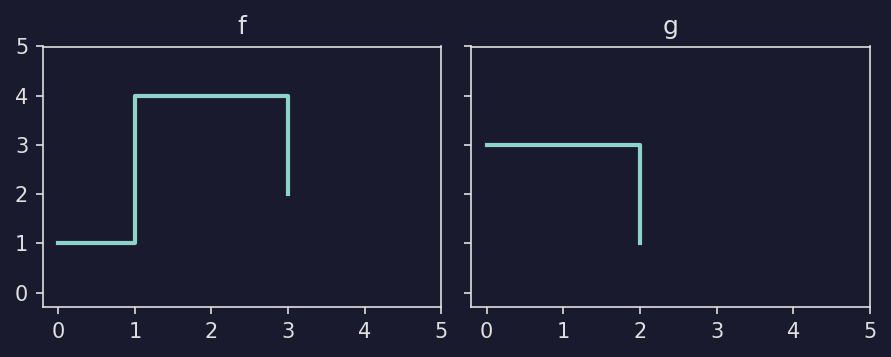
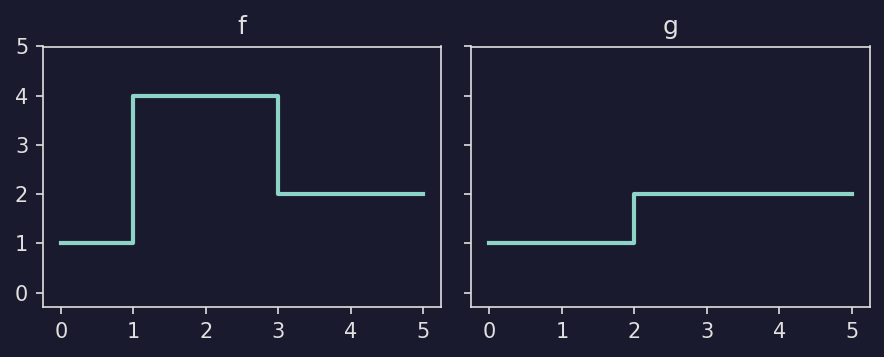
Plotting stuff for docs

diff --git a/docs/_static/gen_tensor_eval_fig.py b/docs/_static/gen_tensor_eval_fig.py
@@ -14,33 +14,27 @@ HERE = Path(__file__).parent
 # f(t) = 1 on [0,1), 4 on [1,3), 2 on [3,inf)
 f = mpcf.Pcf(np.array([[0, 1], [1, 4], [3, 2]], dtype=np.float32))
 
-# g(t) = 3 on [0,2), 1 on [2,inf)
-g = mpcf.Pcf(np.array([[0, 3], [2, 1]], dtype=np.float32))
+# g(t) = 1 on [0,2), 2 on [2,inf)
+g = mpcf.Pcf(np.array([[0, 1], [2, 2]], dtype=np.float32))
 
 X = mpcf.zeros((2, 2))
 X[0, 0] = f
 X[0, 1] = g
-X[1, 0] = g
+X[1, 0] = 0.5 * g
 X[1, 1] = f
-
-XLIM = (-0.2, 5)
-YLIM = (-0.3, 5)
-T_EVAL = 2
 
 
 # -- included in docs via literalinclude :pyobject: --
 def plot_pcf_definitions():
     fig, (ax_f, ax_g) = plt.subplots(1, 2, figsize=(6, 2.5),
                                       sharex=True, sharey=True)
-    plotpcf(f, ax=ax_f, linewidth=2)
+    plotpcf(f, ax=ax_f, max_time=5, linewidth=2)
     ax_f.set_title("f")
-    ax_f.set_xlim(*XLIM)
-    ax_f.set_ylim(*YLIM)
+    ax_f.set_ylim(-0.3, 5)
 
-    plotpcf(g, ax=ax_g, linewidth=2)
+    plotpcf(g, ax=ax_g, max_time=5, linewidth=2)
     ax_g.set_title("g")
-    ax_g.set_xlim(*XLIM)
-    ax_g.set_ylim(*YLIM)
+    ax_g.set_ylim(-0.3, 5)
 
     fig.tight_layout()
     return fig
@@ -48,23 +42,47 @@ def plot_pcf_definitions():
 
 # -- included in docs via literalinclude :pyobject: --
 def plot_tensor_eval_example():
+    t_eval = 2
     fig, axes = plt.subplots(2, 2, figsize=(6, 4), sharex=True, sharey=True)
 
     for ax, pcf, label in [
         (axes[0, 0], f, "X[0,0] = f"),
         (axes[0, 1], g, "X[0,1] = g"),
-        (axes[1, 0], g, "X[1,0] = g"),
+        (axes[1, 0], 0.5 * g, "X[1,0] = 0.5g"),
         (axes[1, 1], f, "X[1,1] = f"),
     ]:
-        plotpcf(pcf, ax=ax, linewidth=2)
-        val = pcf(T_EVAL)
-        ax.axvline(T_EVAL, color="red", linestyle="--", linewidth=1, alpha=0.7)
-        ax.plot(T_EVAL, val, "ro", markersize=6, zorder=5)
+        plotpcf(pcf, ax=ax, max_time=5, linewidth=2)
+        val = pcf(t_eval)
+        ax.axvline(t_eval, color="red", linestyle="--", linewidth=1, alpha=0.7)
+        ax.plot(t_eval, val, "ro", markersize=6, zorder=5)
         ax.set_title(label, fontsize=10)
-        ax.set_xlim(*XLIM)
-        ax.set_ylim(*YLIM)
+        ax.set_ylim(-0.3, 5)
 
-    fig.suptitle(f"X({T_EVAL}) = {X(T_EVAL).tolist()}", fontsize=11)
+    fig.suptitle(f"X({t_eval}) = {X(t_eval).tolist()}", fontsize=11)
+    fig.tight_layout()
+    return fig
+
+
+# -- included in docs via literalinclude :pyobject: --
+def plot_tensor_eval_array():
+    times = [1, 2, 4]
+    fig, axes = plt.subplots(2, 2, figsize=(6, 4), sharex=True, sharey=True)
+
+    for ax, pcf, label in [
+        (axes[0, 0], f, "X[0,0] = f"),
+        (axes[0, 1], g, "X[0,1] = g"),
+        (axes[1, 0], 0.5 * g, "X[1,0] = 0.5g"),
+        (axes[1, 1], f, "X[1,1] = f"),
+    ]:
+        plotpcf(pcf, ax=ax, max_time=5, linewidth=2)
+        for t in times:
+            val = pcf(t)
+            ax.axvline(t, color="red", linestyle="--", linewidth=1, alpha=0.5)
+            ax.plot(t, val, "ro", markersize=6, zorder=5)
+        ax.set_title(label, fontsize=10)
+        ax.set_ylim(-0.3, 5)
+
+    fig.suptitle(f"X({times}) — shape (2, 2, 3)", fontsize=11)
     fig.tight_layout()
     return fig
 
@@ -92,6 +110,7 @@ DARK = ("dark_background", "#1a1a2e", "#e0e0e0", "#5dade2")
 
 if __name__ == "__main__":
     for name, plot_func in [("pcf_definitions", plot_pcf_definitions),
-                             ("tensor_eval_example", plot_tensor_eval_example)]:
+                             ("tensor_eval_example", plot_tensor_eval_example),
+                             ("tensor_eval_array", plot_tensor_eval_array)]:
         _save_themed(plot_func, *LIGHT, HERE / f"{name}_light.png")
         _save_themed(plot_func, *DARK, HERE / f"{name}_dark.png")

diff --git a/docs/_static/gen_combining_fig.py b/docs/_static/gen_combining_fig.py
@@ -1,0 +1,68 @@
+"""Generate the 'combining it all' example figure for the docs."""
+
+import matplotlib
+matplotlib.use("Agg")
+from pathlib import Path
+
+HERE = Path(__file__).parent
+
+# -- docs snippet start --
+import masspcf as mpcf
+from masspcf.random import noisy_sin, noisy_cos
+from masspcf.plotting import plot as plotpcf
+import matplotlib.pyplot as plt
+
+
+def plot_combining_example(sin_color="b", cos_color="r"):
+    M = 10
+    A = mpcf.zeros((2, M))
+
+    A[0, :] = noisy_sin((M,), n_points=100)
+    A[1, :] = noisy_cos((M,), n_points=15)
+
+    fig, ax = plt.subplots(figsize=(6, 2))
+
+    # Plot individual noisy functions
+    plotpcf(A[0, :], ax=ax, color=sin_color, linewidth=0.5, alpha=0.4)
+    plotpcf(A[1, :], ax=ax, color=cos_color, linewidth=0.5, alpha=0.4)
+
+    # Compute and plot means
+    Aavg = mpcf.mean(A, dim=1)
+    plotpcf(Aavg[0], ax=ax, color=sin_color, linewidth=2, label="sin")
+    plotpcf(Aavg[1], ax=ax, color=cos_color, linewidth=2, label="cos")
+
+    ax.set_xlabel("t")
+    ax.set_ylabel("f(t)")
+    ax.legend()
+    fig.tight_layout()
+    return fig
+# -- docs snippet end --
+
+
+# -- Generate light and dark variants --
+def _save_themed(plot_func, style, bg_color, fg_color, outfile):
+    with plt.style.context(style), \
+         plt.rc_context({"axes.facecolor": bg_color,
+                         "axes.edgecolor": fg_color,
+                         "axes.labelcolor": fg_color,
+                         "axes.titlecolor": fg_color,
+                         "figure.facecolor": bg_color,
+                         "text.color": fg_color,
+                         "xtick.color": fg_color,
+                         "ytick.color": fg_color,
+                         "legend.facecolor": bg_color,
+                         "legend.edgecolor": fg_color,
+                         "legend.labelcolor": fg_color}):
+        fig = plot_func()
+        fig.savefig(outfile, dpi=150, bbox_inches="tight", facecolor=bg_color)
+        plt.close(fig)
+        print(f"saved {outfile}")
+
+
+if __name__ == "__main__":
+    _save_themed(lambda: plot_combining_example("b", "r"),
+                 "default", "white", "black",
+                 HERE / "combining_example_light.png")
+    _save_themed(lambda: plot_combining_example("#5dade2", "#ff6b6b"),
+                 "dark_background", "#1a1a2e", "#e0e0e0",
+                 HERE / "combining_example_dark.png")

diff --git a/masspcf/plotting.py b/masspcf/plotting.py
@@ -16,11 +16,11 @@
 import matplotlib.pyplot as plt
 import numpy as np
 
-from .reductions import max_time
+from .reductions import max_time as max_time_reduction
 from .tensor import PcfContainerLike, PcfTensor
 
 
-def plot(f: PcfContainerLike, fmt="", ax=None, auto_label=False, **kwargs):
+def plot(f: PcfContainerLike, fmt="", ax=None, auto_label=False, max_time=None, **kwargs):
     """Plot one or more PCFs using matplotlib's step function.
 
     Parameters
@@ -34,6 +34,10 @@ def plot(f: PcfContainerLike, fmt="", ax=None, auto_label=False, **kwargs):
     auto_label : bool, optional
         If ``True`` and ``f`` is a tensor, label each PCF as ``f0``, ``f1``,
         etc. By default ``False``.
+    max_time : float, optional
+        Extend the plot so the final constant segment reaches this time.
+        If ``None``, single PCFs are not extended and tensors extend to
+        the latest breakpoint across all elements.
     **kwargs
         Additional keyword arguments passed to ``matplotlib.pyplot.step``
         (e.g. ``color``, ``linewidth``, ``alpha``, ``label``).
@@ -54,8 +58,9 @@ def plot(f: PcfContainerLike, fmt="", ax=None, auto_label=False, **kwargs):
     if isinstance(f, PcfTensor):
         if len(f.shape) != 1:
             raise ValueError(f"Expected 1-dimensional array (got array with {f.shape})")
+        mt = max_time if max_time is not None else np.array(max_time_reduction(f))
         for i in range(f.shape[0]):
             kw = {"label": f"f{i}"} if auto_label else {}
-            plot_single_(f[i], np.array(max_time(f)), **kw)
+            plot_single_(f[i], mt, **kw)
     else:
-        plot_single_(f, None)
+        plot_single_(f, max_time)

diff --git a/docs/tensors.rst b/docs/tensors.rst
@@ -243,8 +243,8 @@ Consider a small example with two PCFs::
    # f(t) = 1 on [0,1), 4 on [1,3), 2 on [3,inf)
    f = mpcf.Pcf(np.array([[0, 1], [1, 4], [3, 2]], dtype=np.float32))
 
-   # g(t) = 3 on [0,2), 1 on [2,inf)
-   g = mpcf.Pcf(np.array([[0, 3], [2, 1]], dtype=np.float32))
+   # g(t) = 1 on [0,2), 2 on [2,inf)
+   g = mpcf.Pcf(np.array([[0, 1], [2, 2]], dtype=np.float32))
 
 .. image:: _static/pcf_definitions_light.png
    :width: 80%
@@ -268,7 +268,7 @@ Arrange them in a 2x2 tensor::
    X = mpcf.zeros((2, 2))
    X[0, 0] = f
    X[0, 1] = g
-   X[1, 0] = g
+   X[1, 0] = 0.5 * g
    X[1, 1] = f
 
 Scalar evaluation
@@ -278,7 +278,7 @@ Pass a single number to get one value per PCF. The result is a NumPy array
 with the same shape as the tensor::
 
    X(2)
-   # array([[4., 1.],
+   # array([[4., 2.],
    #        [1., 4.]], dtype=float32)
 
 .. image:: _static/tensor_eval_example_light.png
@@ -307,10 +307,27 @@ dimensions are appended to the tensor shape::
    times = np.array([1, 2, 4], dtype=np.float32)
    X(times)
    # shape (2, 2, 3) -- tensor shape (2,2) + times shape (3,)
-   # array([[[1., 4., 2.],
-   #         [3., 1., 1.]],
-   #        [[3., 1., 1.],
-   #         [1., 4., 2.]]], dtype=float32)
+   # array([[[4. , 4. , 2. ],
+   #         [1. , 2. , 2. ]],
+   #        [[0.5, 1. , 1. ],
+   #         [4. , 4. , 2. ]]], dtype=float32)
+
+.. image:: _static/tensor_eval_array_light.png
+   :width: 80%
+   :class: only-light
+   :alt: Each PCF in the 2x2 tensor evaluated at t=1, 2, 4
+
+.. image:: _static/tensor_eval_array_dark.png
+   :width: 80%
+   :class: only-dark
+   :alt: Each PCF in the 2x2 tensor evaluated at t=1, 2, 4
+
+.. dropdown:: Show plotting code
+   :color: secondary
+
+   .. literalinclude:: _static/gen_tensor_eval_fig.py
+      :pyobject: plot_tensor_eval_array
+      :language: python
 
 Multi-dimensional time arrays work too::
 
@@ -470,35 +487,19 @@ The ``plot`` function accepts any keyword arguments that matplotlib's ``step`` f
 Combining it all
 ================
 
-Here is a complete example that creates a tensor of noisy sine and cosine functions, computes their means, and plots the result::
+Here is a complete example that creates a tensor of noisy sine and cosine functions, computes their means, and plots the result:
 
-   import masspcf as mpcf
-   from masspcf.random import noisy_sin, noisy_cos
-   from masspcf.plotting import plot as plotpcf
-   import matplotlib.pyplot as plt
+.. literalinclude:: _static/gen_combining_fig.py
+   :language: python
+   :start-after: docs snippet start --
+   :end-before: docs snippet end --
 
-   M = 10
-   A = mpcf.zeros((2, M))
-
-   A[0, :] = noisy_sin((M,), n_points=100)
-   A[1, :] = noisy_cos((M,), n_points=15)
-
-   fig, ax = plt.subplots(figsize=(6, 2))
-
-   # Plot individual noisy functions
-   plotpcf(A[0, :], ax=ax, color='b', linewidth=0.5, alpha=0.4)
-   plotpcf(A[1, :], ax=ax, color='r', linewidth=0.5, alpha=0.4)
-
-   # Compute and plot means
-   Aavg = mpcf.mean(A, dim=1)
-   plotpcf(Aavg[0], ax=ax, color='b', linewidth=2, label='sin')
-   plotpcf(Aavg[1], ax=ax, color='r', linewidth=2, label='cos')
-
-   plt.xlabel('t')
-   plt.ylabel('f(t)')
-   plt.legend()
-   plt.show()
-
-.. image:: _static/combining_example.png
+.. image:: _static/combining_example_light.png
    :width: 80%
+   :class: only-light
+   :alt: Noisy sine and cosine PCFs with their means
+
+.. image:: _static/combining_example_dark.png
+   :width: 80%
+   :class: only-dark
    :alt: Noisy sine and cosine PCFs with their means
